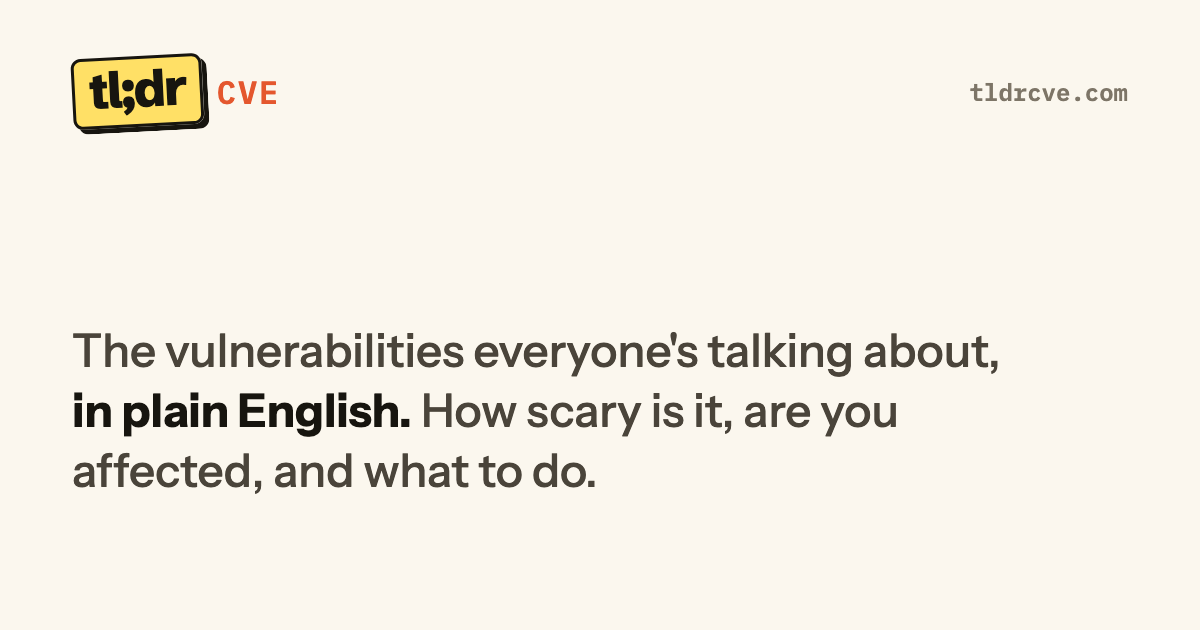
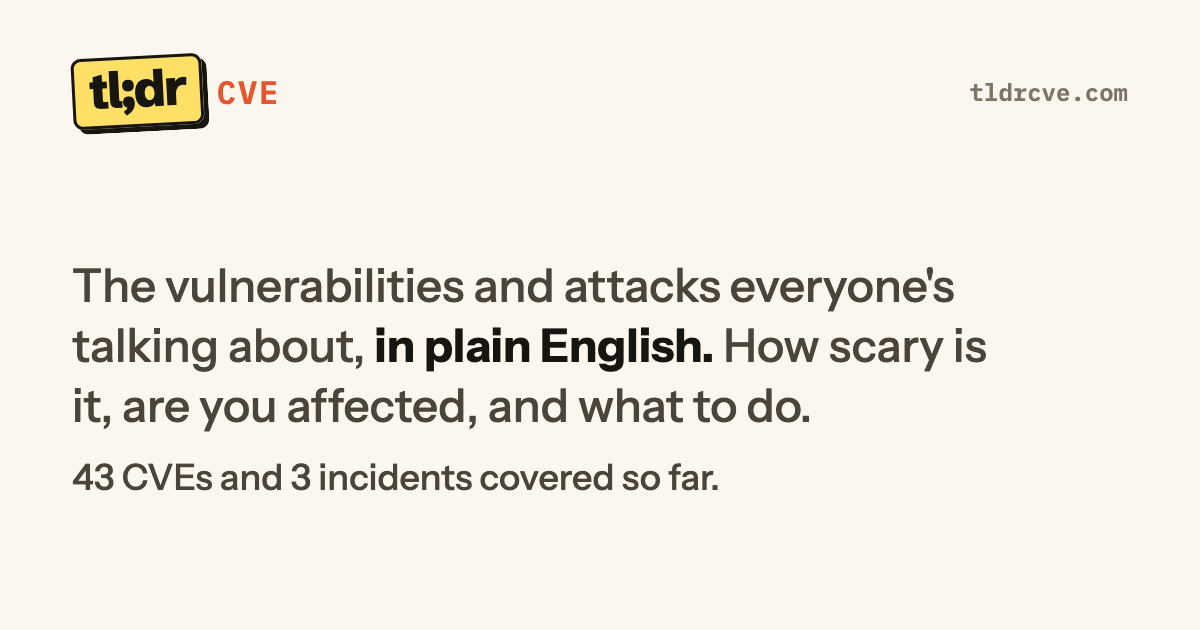
Cards and llms.txt for incidents; "vulnerabilities and attacks" on home (#46)
- New preview card for /incidents/ ("3 incidents"); it fell back to the
  default card, which the post-deploy check flagged.
- All CVEs card counts CVE pages only ("43 CVEs"); both list cards drop
  the small heading and read "The ones people are actually talking about,
  in plain English."
- Home card adds "43 CVEs and 3 incidents covered so far." Home card,
  hero and description say "vulnerabilities and attacks".
- llms.txt links /incidents/.

Changed region(s): [[0.0617, 0.5127, 0.8325, 0.6937], [0.0617, 0.4222, 0.8017, 0.4825], [0.0617, 0.7238, 0.6167, 0.7841]]

diff --git a/tools/cards.py b/tools/cards.py
@@ -84,15 +84,20 @@ def page_card(c):
 <span class="meter">{meter}</span><span class="zone">{html.escape(label)}</span></div>"""
 
 
-def default_card():
+def count(n, word):
+    return f"{n} {word}{'' if n == 1 else 's'}"
+
+
+def default_card(n_cve, n_inc):
     return f"""{header("tldrcve.com")}
-<div class="main"><p class="tag">The vulnerabilities everyone's talking about, <b>in plain English.</b>
-How scary is it, are you affected, and what to do.</p></div>"""
+<div class="main"><p class="tag">The vulnerabilities and attacks everyone's talking about, <b>in plain English.</b>
+How scary is it, are you affected, and what to do.</p>
+<p class="line">{count(n_cve, "CVE")} and {count(n_inc, "incident")} covered so far.</p></div>"""
 
 
 def text_card(right, kicker, title, line):
     return f"""{header(right)}
-<div class="main"><div class="kick">{html.escape(kicker)}</div><h1>{html.escape(title)}</h1>
+<div class="main">{f'<div class="kick">{html.escape(kicker)}</div>' if kicker else ""}<h1>{html.escape(title)}</h1>
 <p class="line">{html.escape(line)}</p></div>"""
 
 
@@ -136,9 +141,12 @@ def shoot(browser, html_file, png, profile):
 
 
 def documents(all_c):
-    cards = {"default": default_card(), **{c["slug"]: page_card(c) for c in all_c}}
-    cards["cves"] = text_card("tldrcve.com/cves", "All CVEs", f"{len(all_c)} vulnerabilities",
-                              "Only the ones people are actually talking about, in plain English.")
+    n_inc = sum(1 for c in all_c if build.is_incident(c))
+    n_cve = len(all_c) - n_inc
+    cards = {"default": default_card(n_cve, n_inc), **{c["slug"]: page_card(c) for c in all_c}}
+    talked = "The ones people are actually talking about, in plain English."
+    cards["cves"] = text_card("tldrcve.com/cves", None, count(n_cve, "CVE"), talked)
+    cards["incidents"] = text_card("tldrcve.com/incidents", None, count(n_inc, "incident"), talked)
     cards["how-we-rate"] = text_card("tldrcve.com/how-we-rate", "How we rate", "The scare-o-meter",
                                      "Attacks, exploits and exposure count. A scary CVSS score alone doesn't.")
     cards["versions"] = text_card("tldrcve.com/versions", "Safe versions", "Latest safe versions",

diff --git a/build.py b/build.py
@@ -1074,7 +1074,7 @@ def home(all_c: list) -> str:
     body = f"""  <main class="wrap home">
     <section class="hero">
       <h1>CVEs in plain English</h1>
-      <p class="hero__lede">The vulnerabilities everyone's panicking about.<br>Are you affected, and what should you do?</p>
+      <p class="hero__lede">The vulnerabilities and attacks everyone's panicking about.<br>Are you affected, and what should you do?</p>
       <form class="search" role="search" action="/cves/" method="get">
         <label for="q" class="visually-hidden">Search all CVEs</label>
         {SEARCH_ICON}
@@ -1097,7 +1097,7 @@ def home(all_c: list) -> str:
   </main>
 """
     return page("tldrcve: CVEs in plain English",
-                "The vulnerabilities everyone's talking about, in plain English: are you affected, and what to do.",
+                "The vulnerabilities and attacks everyone's talking about, in plain English: are you affected, and what to do.",
                 body, current="home", path="/")
 
 
@@ -1828,7 +1828,8 @@ def write_data(all_c: list) -> None:
         lines.append(f'- [{v["name"]}]({SITE_URL}/versions/{pid}/): {latest} (checked {v["checked"]})')
     lines += ["", "## About", "",
               f"- [Home]({SITE_URL}/): latest pages",
-              f"- [All CVEs]({SITE_URL}/cves/): every page, filterable by product and date",
+              f"- [All CVEs]({SITE_URL}/cves/): every CVE page, filterable by product and date",
+              f"- [Incidents]({SITE_URL}/incidents/): attacks that already happened: how bad, who says so, what to clean up",
               f"- [How we rate]({SITE_URL}/how-we-rate/): what the verdicts and scare levels mean",
               f"- [Source on GitHub]({REPO_URL}): content files, corrections welcome", ""]
     (OUT / "llms.txt").write_text("\n".join(lines))
